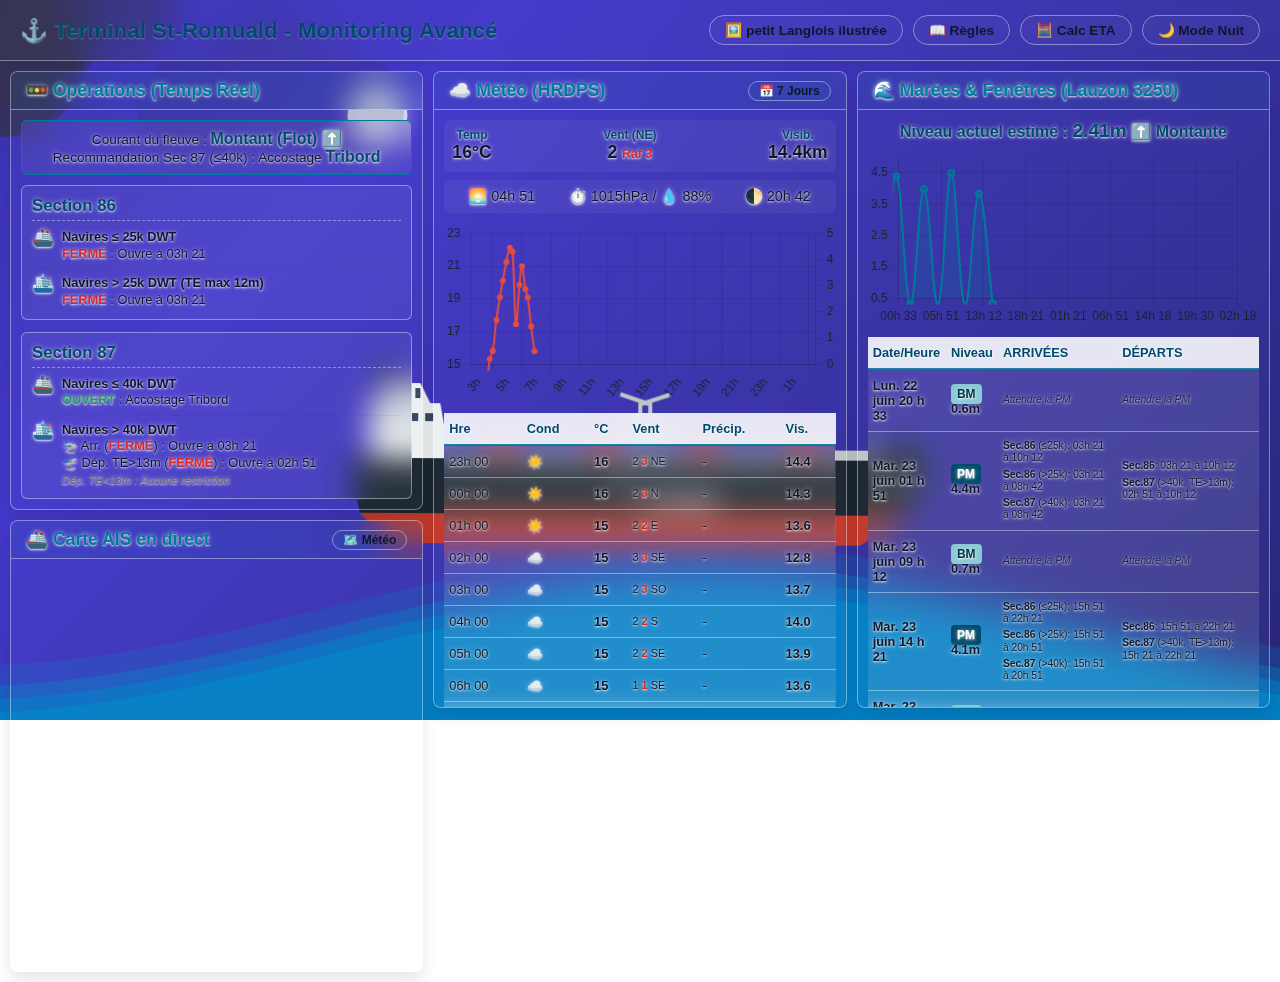
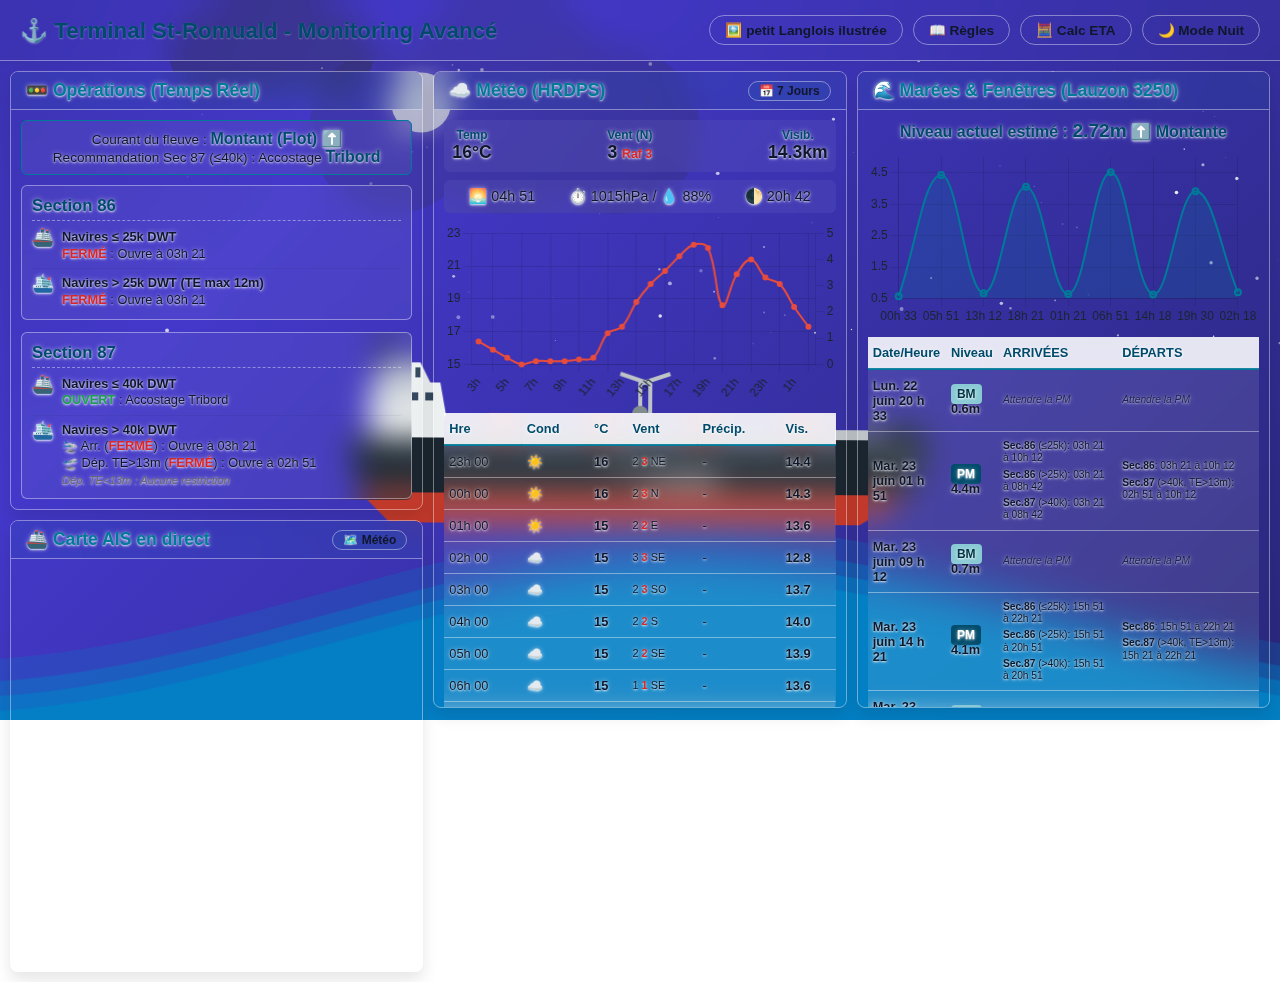
Enhance background ship and wave animations
- Replaced basic background boat with a 3x larger Cap Quebec tanker model
- Upgraded water rendering to use multi-layered SVGs with smooth parallax animation
- Adjusted UI elements to have transparent backgrounds, applying blur only to readable text and tables

diff --git a/info terminable MArtine.html b/info terminable MArtine.html
@@ -12,7 +12,7 @@
             --bg-color: transparent; 
             --text-color: #0f172a;
             --text-shadow: 0 1px 2px rgba(255, 255, 255, 0.8), 0 0 5px rgba(255, 255, 255, 0.5);
-            --card-bg: rgba(255, 255, 255, 0.02);
+            --card-bg: transparent;
             --tooltip-bg: rgba(255, 255, 255, 0.85);
             --border-color: rgba(255, 255, 255, 0.4);
             --th-bg: rgba(0, 122, 153, 0.08);
@@ -30,7 +30,7 @@
             --bg-color: transparent;
             --text-color: #f8fafc;
             --text-shadow: 0 1px 2px rgba(0, 0, 0, 0.9), 0 0 5px rgba(0, 0, 0, 0.7);
-            --card-bg: rgba(15, 23, 42, 0.02);
+            --card-bg: transparent;
             --tooltip-bg: rgba(15, 23, 42, 0.85);
             --border-color: rgba(255, 255, 255, 0.1);
             --th-bg: rgba(255, 255, 255, 0.05);
